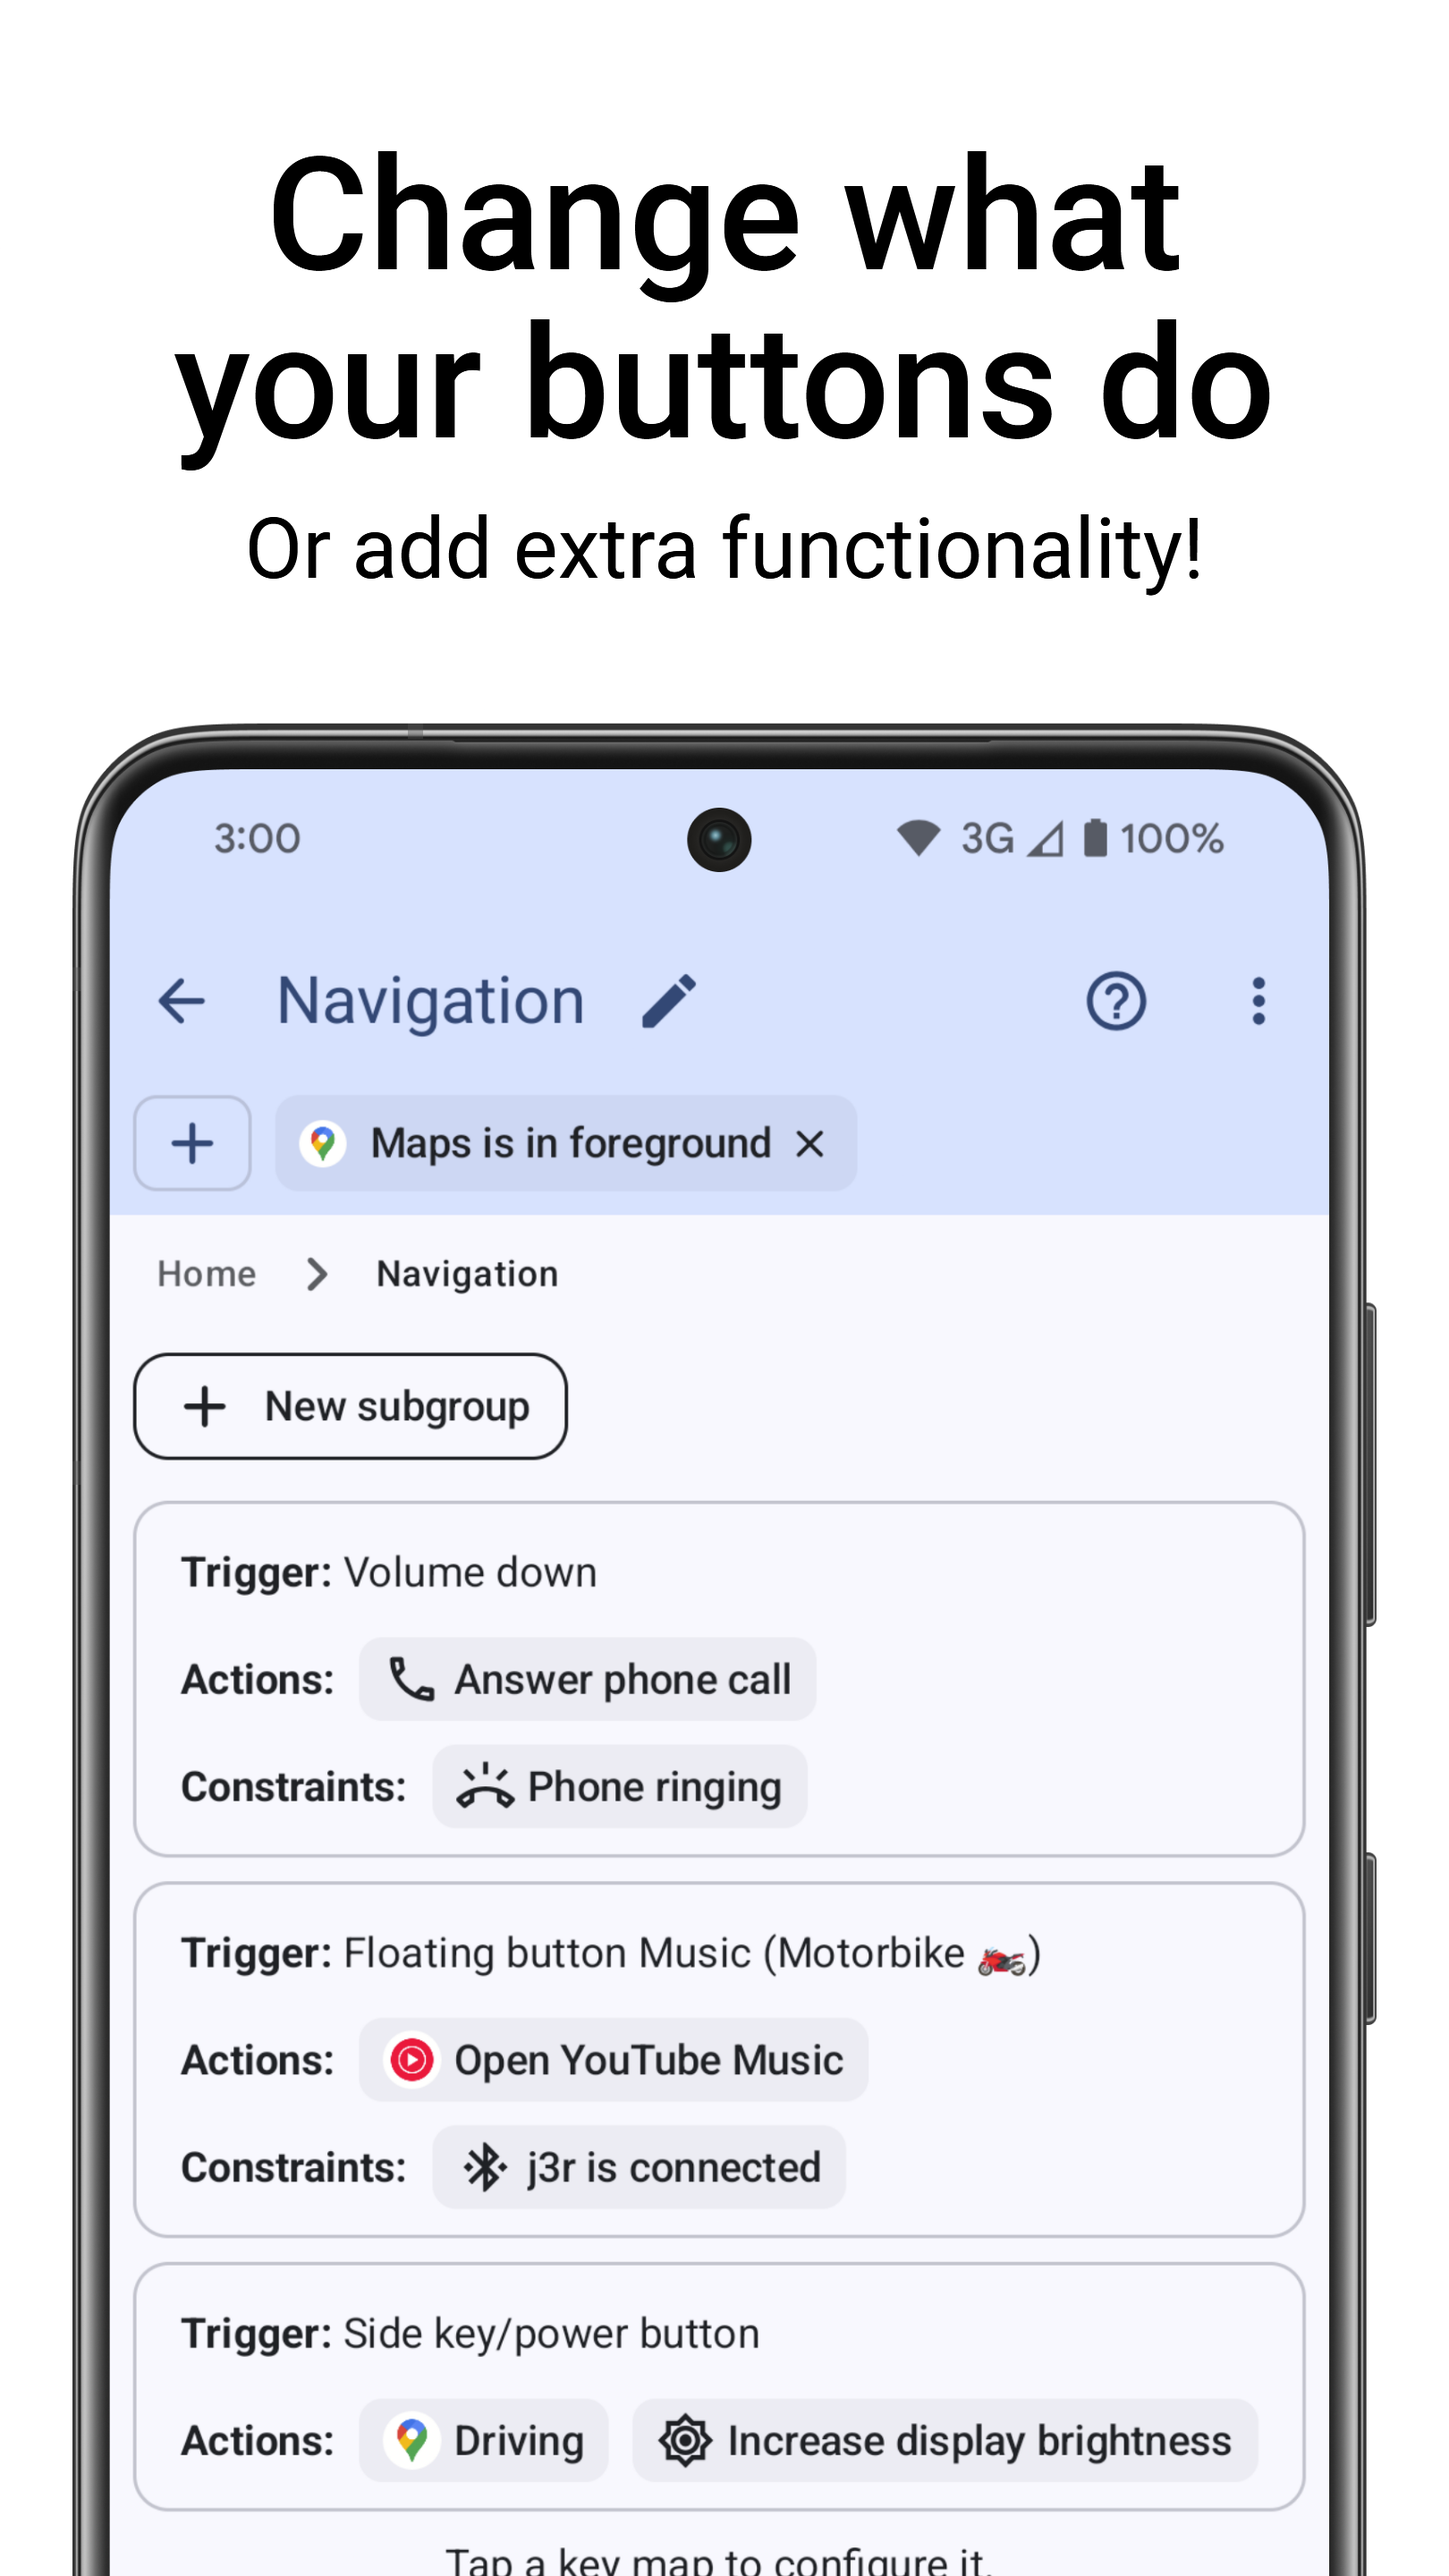
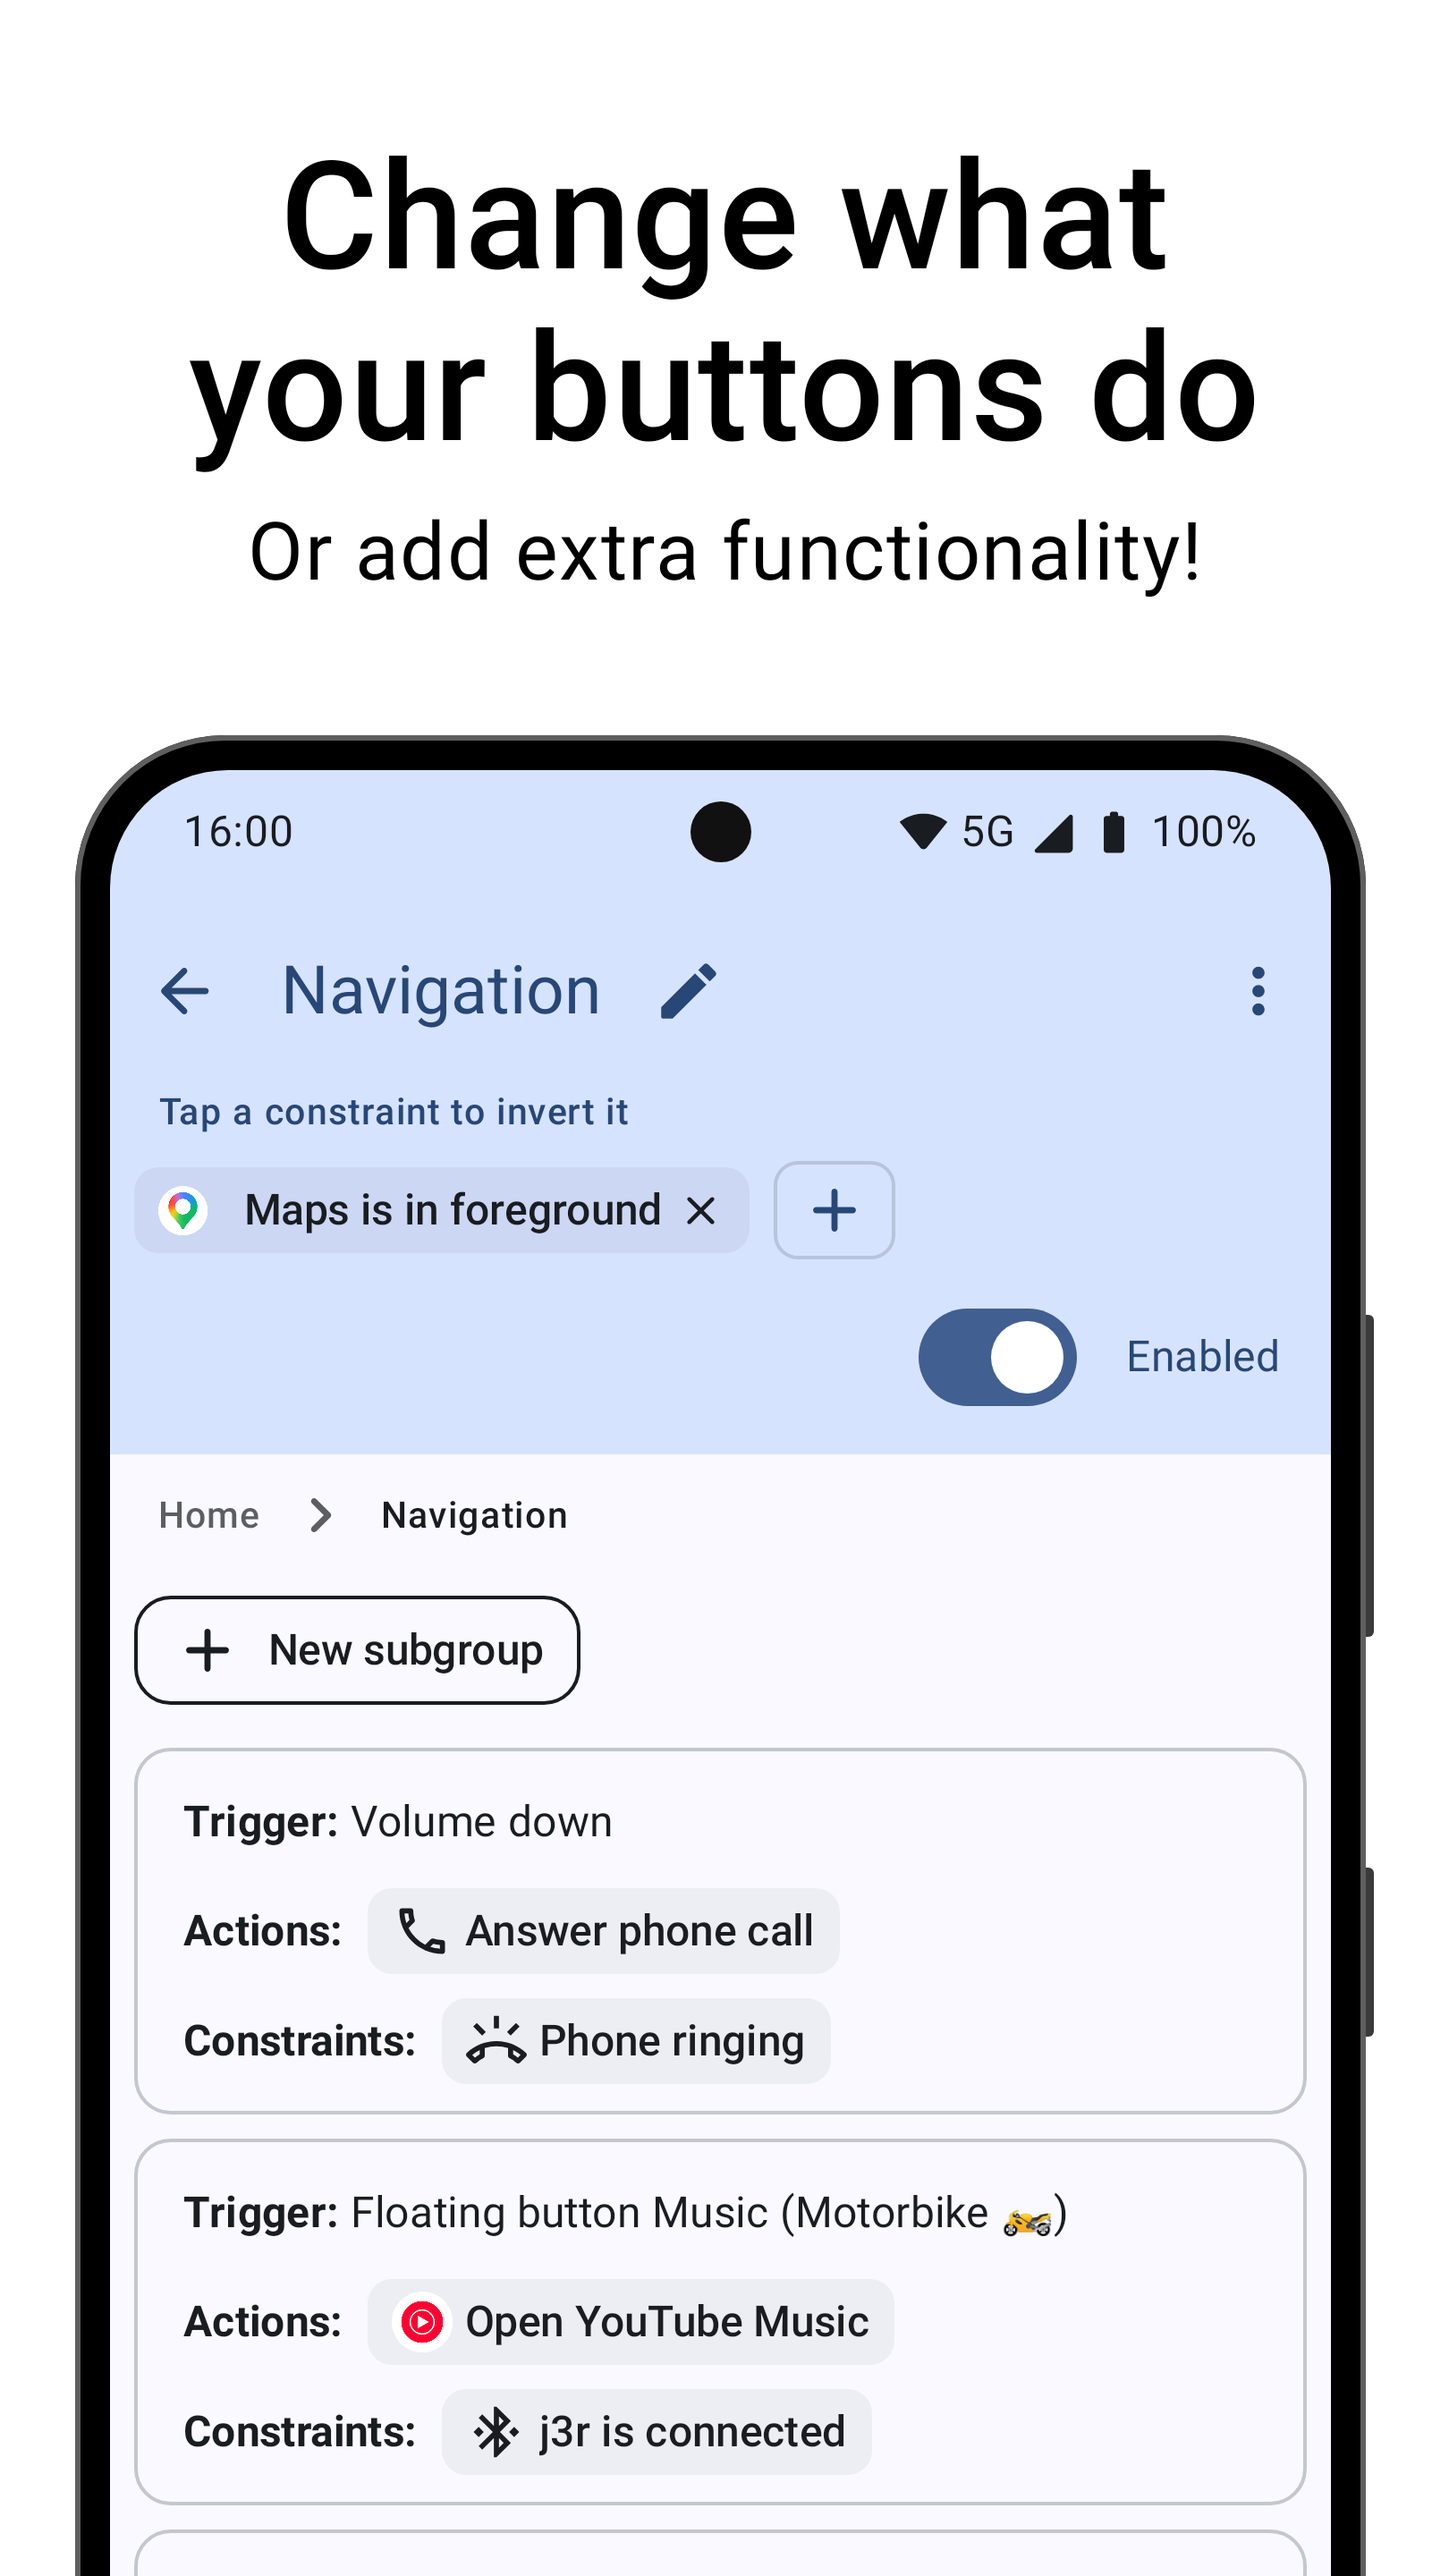
#2277 create first screenshot

diff --git a/screenshots/src/test/java/io/github/sds100/keymapper/screenshots/Screenshot1.kt b/screenshots/src/test/java/io/github/sds100/keymapper/screenshots/Screenshot1.kt
@@ -1,0 +1,104 @@
+package io.github.sds100.keymapper.screenshots
+
+import androidx.compose.material.icons.Icons
+import androidx.compose.material.icons.outlined.BluetoothConnected
+import androidx.compose.material.icons.outlined.BrightnessHigh
+import androidx.compose.material.icons.outlined.Call
+import androidx.compose.material.icons.outlined.RingVolume
+import androidx.compose.material3.ExperimentalMaterial3Api
+import androidx.compose.material3.MaterialTheme
+import androidx.compose.ui.platform.LocalContext
+import com.github.takahirom.roborazzi.captureRoboImage
+import io.github.sds100.keymapper.base.compose.KeyMapperTheme
+import io.github.sds100.keymapper.base.constraints.ConstraintMode
+import io.github.sds100.keymapper.base.groups.GroupListItemModel
+import io.github.sds100.keymapper.base.home.HomeKeyMapListScreen
+import io.github.sds100.keymapper.base.home.KeyMapAppBarState
+import io.github.sds100.keymapper.base.home.KeyMapList
+import io.github.sds100.keymapper.base.home.KeyMapListAppBar
+import io.github.sds100.keymapper.base.home.KeyMapListHeader
+import io.github.sds100.keymapper.base.home.SelectedKeyMapsEnabled
+import io.github.sds100.keymapper.base.utils.ui.drawable
+import io.github.sds100.keymapper.common.utils.State
+import org.junit.Test
+import org.junit.runner.RunWith
+import org.robolectric.RobolectricTestRunner
+import org.robolectric.annotation.Config
+import org.robolectric.annotation.GraphicsMode
+
+@RunWith(RobolectricTestRunner::class)
+@GraphicsMode(GraphicsMode.Mode.NATIVE)
+@Config(qualifiers = "w540dp-h960dp-xxhdpi", sdk = [35])
+class Screenshot1 {
+
+    @OptIn(ExperimentalMaterial3Api::class)
+    @Test
+    fun navigationGroup() {
+        captureRoboImage("../fastlane/metadata/android/en-US/images/phoneScreenshots/1.png") {
+            val ctx = LocalContext.current
+            val maps = ctx.drawable(R.drawable.google_maps)
+
+            val appBarState = KeyMapAppBarState.ChildGroup(
+                groupName = "Navigation",
+                constraints = listOf(chip("Maps is in foreground", maps)),
+                constraintMode = ConstraintMode.AND,
+                parentConstraintCount = 0,
+                subGroups = emptyList(),
+                // The "Home" breadcrumb is always added by the breadcrumb row.
+                breadcrumbs = listOf(GroupListItemModel(uid = "0", name = "Navigation")),
+                isEditingGroupName = false,
+                isNewGroup = false,
+                keyMapsEnabled = SelectedKeyMapsEnabled.ALL,
+            )
+
+            val keyMaps = listOf(
+                keyMap(
+                    uid = "0",
+                    triggerKeys = listOf("Volume down"),
+                    actions = listOf(chip("Answer phone call", Icons.Outlined.Call)),
+                    constraints = listOf(chip("Phone ringing", Icons.Outlined.RingVolume)),
+                ),
+                keyMap(
+                    uid = "1",
+                    triggerKeys = listOf("Floating button Music (Motorbike 🏍)"),
+                    actions = listOf(
+                        chip("Open YouTube Music", ctx.drawable(R.drawable.youtube_music)),
+                    ),
+                    constraints = listOf(
+                        chip("j3r is connected", Icons.Outlined.BluetoothConnected),
+                    ),
+                ),
+                keyMap(
+                    uid = "2",
+                    triggerKeys = listOf("Side key/power button"),
+                    actions = listOf(
+                        chip("Driving", maps),
+                        chip("Increase display brightness", Icons.Outlined.BrightnessHigh),
+                    ),
+                ),
+            )
+
+            KeyMapperTheme(darkTheme = false) {
+                StoreScreenshotFrame(
+                    headline = "Change what your buttons do",
+                    subtitle = "Or add extra functionality!",
+                    statusBarColor = MaterialTheme.colorScheme.primaryContainer,
+                ) {
+                    HomeKeyMapListScreen(
+                        appBarContent = { KeyMapListAppBar(state = appBarState) },
+                        listContent = {
+                            KeyMapList(
+                                listItems = State.Data(keyMaps),
+                                header = {
+                                    KeyMapListHeader(state = appBarState, extraContent = {})
+                                },
+                            )
+                        },
+                        floatingActionButton = {},
+                        selectionBottomSheet = {},
+                    )
+                }
+            }
+        }
+    }
+}

diff --git a/screenshots/src/test/java/io/github/sds100/keymapper/screenshots/Screenshot5.kt b/screenshots/src/test/java/io/github/sds100/keymapper/screenshots/Screenshot5.kt
@@ -3,16 +3,13 @@ package io.github.sds100.keymapper.screenshots
 import androidx.compose.material.icons.Icons
 import androidx.compose.material.icons.automirrored.outlined.Message
 import androidx.compose.material.icons.automirrored.outlined.ShortText
-import androidx.compose.material.icons.outlined.Add
 import androidx.compose.material.icons.outlined.Fullscreen
 import androidx.compose.material.icons.rounded.Abc
 import androidx.compose.material3.ExperimentalMaterial3Api
 import androidx.compose.material3.MaterialTheme
-import androidx.compose.ui.graphics.vector.ImageVector
 import androidx.compose.ui.platform.LocalContext
 import com.github.takahirom.roborazzi.captureRoboImage
 import io.github.sds100.keymapper.base.compose.KeyMapperTheme
-import io.github.sds100.keymapper.base.constraints.ConstraintMode
 import io.github.sds100.keymapper.base.groups.GroupListItemModel
 import io.github.sds100.keymapper.base.home.HomeKeyMapListScreen
 import io.github.sds100.keymapper.base.home.KeyMapAppBarState
@@ -21,7 +18,6 @@ import io.github.sds100.keymapper.base.home.KeyMapListAppBar
 import io.github.sds100.keymapper.base.home.KeyMapListHeader
 import io.github.sds100.keymapper.base.trigger.KeyMapListItemModel
 import io.github.sds100.keymapper.base.utils.ui.compose.CollapsableFloatingActionButton
-import io.github.sds100.keymapper.base.utils.ui.compose.ComposeChipModel
 import io.github.sds100.keymapper.base.utils.ui.compose.ComposeIconInfo
 import io.github.sds100.keymapper.base.utils.ui.drawable
 import io.github.sds100.keymapper.common.utils.State
@@ -34,7 +30,7 @@ import org.robolectric.annotation.GraphicsMode
 @RunWith(RobolectricTestRunner::class)
 @GraphicsMode(GraphicsMode.Mode.NATIVE)
 @Config(qualifiers = "w540dp-h960dp-xxhdpi", sdk = [35])
-class KeyMapListScreenshot {
+class Screenshot5 {
 
     @OptIn(ExperimentalMaterial3Api::class)
     @Test
@@ -105,37 +101,6 @@ class KeyMapListScreenshot {
                     chip("Repeat KEYCODE_SPACE", Icons.Rounded.Abc),
                 ),
             ),
-        )
-    }
-
-    private fun keyMap(
-        uid: String,
-        triggerKeys: List<String>,
-        actions: List<ComposeChipModel>,
-        constraints: List<ComposeChipModel> = emptyList(),
-        options: List<String> = emptyList(),
-    ): KeyMapListItemModel {
-        return KeyMapListItemModel(
-            isSelected = false,
-            KeyMapListItemModel.Content(
-                uid = uid,
-                triggerKeys = triggerKeys,
-                triggerSeparatorIcon = Icons.Outlined.Add,
-                actions = actions,
-                constraintMode = ConstraintMode.AND,
-                constraints = constraints,
-                options = options,
-                isEnabled = true,
-                hasError = false,
-            ),
-        )
-    }
-
-    private fun chip(text: String, icon: ImageVector): ComposeChipModel {
-        return ComposeChipModel.Normal(
-            id = text,
-            icon = ComposeIconInfo.Vector(icon),
-            text = text,
         )
     }
 }

diff --git a/screenshots/src/test/java/io/github/sds100/keymapper/screenshots/ScreenshotModels.kt b/screenshots/src/test/java/io/github/sds100/keymapper/screenshots/ScreenshotModels.kt
@@ -1,0 +1,49 @@
+package io.github.sds100.keymapper.screenshots
+
+import android.graphics.drawable.Drawable
+import androidx.compose.material.icons.Icons
+import androidx.compose.material.icons.outlined.Add
+import androidx.compose.ui.graphics.vector.ImageVector
+import io.github.sds100.keymapper.base.constraints.ConstraintMode
+import io.github.sds100.keymapper.base.trigger.KeyMapListItemModel
+import io.github.sds100.keymapper.base.utils.ui.compose.ComposeChipModel
+import io.github.sds100.keymapper.base.utils.ui.compose.ComposeIconInfo
+
+fun keyMap(
+    uid: String,
+    triggerKeys: List<String>,
+    actions: List<ComposeChipModel>,
+    constraints: List<ComposeChipModel> = emptyList(),
+    options: List<String> = emptyList(),
+): KeyMapListItemModel {
+    return KeyMapListItemModel(
+        isSelected = false,
+        KeyMapListItemModel.Content(
+            uid = uid,
+            triggerKeys = triggerKeys,
+            triggerSeparatorIcon = Icons.Outlined.Add,
+            actions = actions,
+            constraintMode = ConstraintMode.AND,
+            constraints = constraints,
+            options = options,
+            isEnabled = true,
+            hasError = false,
+        ),
+    )
+}
+
+fun chip(text: String, icon: ImageVector): ComposeChipModel {
+    return ComposeChipModel.Normal(
+        id = text,
+        icon = ComposeIconInfo.Vector(icon),
+        text = text,
+    )
+}
+
+fun chip(text: String, icon: Drawable): ComposeChipModel {
+    return ComposeChipModel.Normal(
+        id = text,
+        icon = ComposeIconInfo.Drawable(icon),
+        text = text,
+    )
+}
